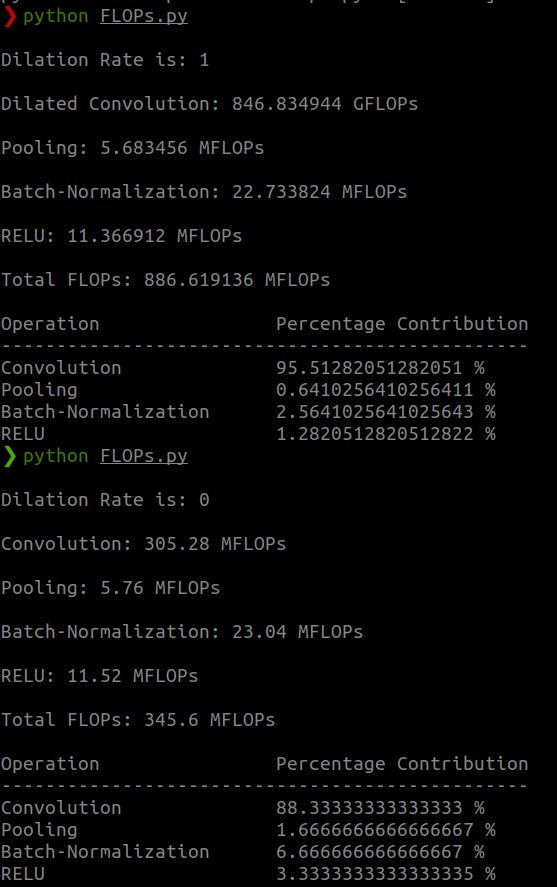
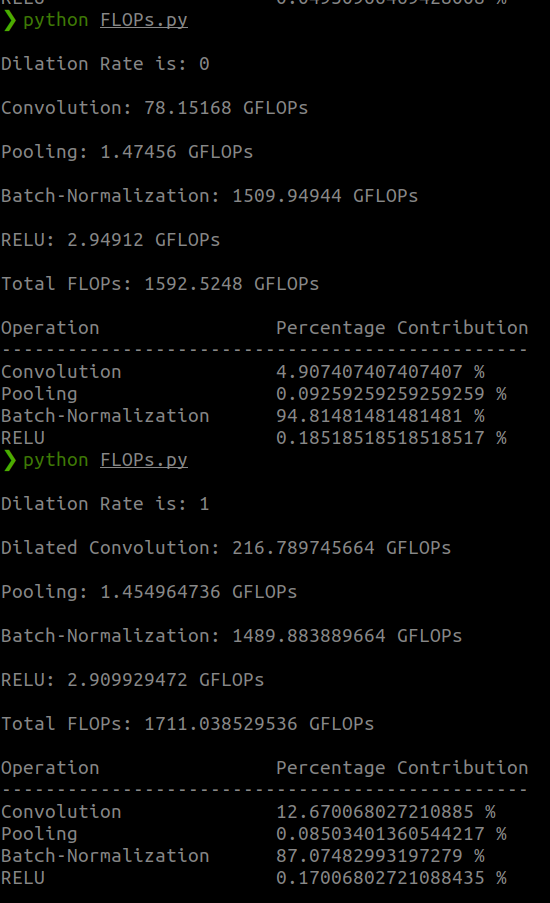
:zap: Make batch-size = 256

diff --git a/FLOPs.py b/FLOPs.py
@@ -117,6 +117,6 @@ Initializing params:
 
 if __name__ == '__main__':
 
-    flops_calc = FLOP(input_shape=(1, 3 ,300 ,300), filter_shape=(64 ,3 ,3 ,3), stride=1, padding=1, dilation_rate=0)
+    flops_calc = FLOP(input_shape=(256, 3 ,300 ,300), filter_shape=(64 ,3 ,3 ,3), stride=1, padding=1, dilation_rate=0)
 
     flops_calc.calculateFLOPs()

diff --git a/README.md b/README.md
@@ -17,7 +17,7 @@ This repo contains the code for calculating **FLOPs (Floating-Point Operation)**
 https://github.com/praeclarumjj3/FLOPs-Calculation.git
 ```
 
-- Run the following command to see the sample result:
+- Run the following command to see the sample result for `batch_size = 256`:
 ```
 python FLOPs.py
 ```
